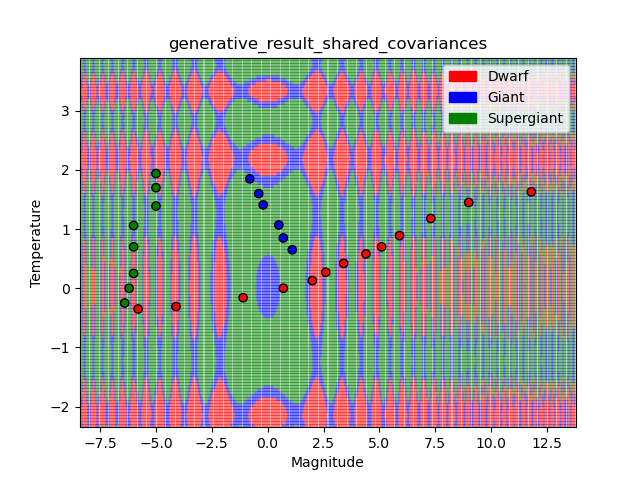
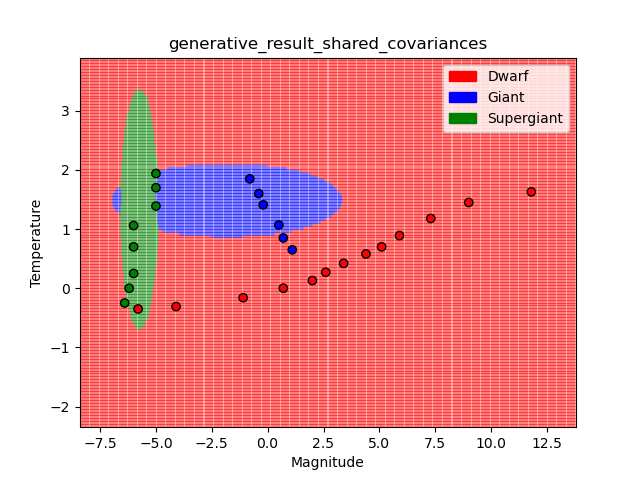
gradient

diff --git a/hw2/T2_P3_GaussianGenerativeModel.py b/hw2/T2_P3_GaussianGenerativeModel.py
@@ -15,46 +15,55 @@ class GaussianGenerativeModel:
     def __optimalPi(self, y):
         pi = [] 
         for j in range(3):
-            pi.append(len([1 for i in y[0] if i == j]))
-        return pi
+            pi.append(len([1 for i in y if i == j]))
+        pi = [p / len(y) for p in pi]
+        self.pi = pi 
+        return 
 
     def __mean(self, X, y):
+        self.__optimalPi(y)
         mu = [] 
         y = np.reshape(y, (1, X.shape[0]))
-        s = sum(y @ X) 
         for j in range(3):
             n = len([1 for i in y[0] if i == j])
-            mu.append(s * (1 / n)) 
-        return mu
+            total = [0, 0]
+            for i in range(len(X)):
+                if y[0][i] == j:
+                    total[0] += X[i][0] 
+                    total[1] += X[i][1]
+            mu.append(np.array(total) * (1 / n)) 
+        return np.array(mu)
 
     def __covarianceMatrix(self, X, y):
         cov = []
         mu = self.__mean(X,y)
-        for i in range(len(X)):
-            total = 0 
-            for j in range(3):
-                total += (X[i] - mu[j]) @ (X[i] - mu[j]).T * y[i]
-            cov.append(total)
-            print("total " + str(total))
-        return (1 / len(X)) * np.array(cov)
-        #return X.T
+        X = np.array(X)
+        for j in range(3):
+            v = [0, 0]
+            for i in range(len(X)):
+                v[0] = (X[i][0] - mu[j][0]) * np.transpose(X[i][0] - mu[j][0])
+                v[1] = (X[i][1] - mu[j][1]) * np.transpose(X[i][1] - mu[j][1])
+            cov.append(np.diag(v))
+        return np.array(cov) * (1 / len(X)) 
 
     # TODO: Implement this method!
     def fit(self, X, y):
-        print("mean" + str(self.__mean(X,y)))
-        print("cov" + str(self.__covarianceMatrix(X,y)))
-        return
+        self.mu = self.__mean(X,y)
+        self.cov = self.__covarianceMatrix(X,y)
+        print("cov " + str(self.cov))
+        print("mu " + str(self.mu))
 
     # TODO: Implement this method!
     def predict(self, X_pred):
         # The code in this method should be removed and replaced! We included it
         # just so that the distribution code is runnable and produces a
         # (currently meaningless) visualization.
-
         preds = []
-        for x in X_pred:
-            z = np.sin(x ** 2).sum()
-            preds.append(1 + np.sign(z) * (np.abs(z) > 0.3))
+        for i in range(len(X_pred)):
+            stars = []
+            for j in range(3):  
+                stars.append(self.pi[j] * mvn.pdf(x=X_pred[i],mean=self.mu[j],cov=self.cov[j]))
+            preds.append(stars.index(max(stars)))
         return np.array(preds)
 
     # TODO: Implement this method!

diff --git a/hw2/T2_P3_LogisticRegression.py b/hw2/T2_P3_LogisticRegression.py
@@ -12,47 +12,43 @@ class LogisticRegression:
     def __init__(self, eta, lam):
         self.eta = eta
         self.lam = lam
-        self.W = np.array([])
 
     def __calculateError(self, x, y):
-        gradient = np.zeros((x.shape[1], 1))
-        for y_i, y_hat, x_i in zip(y, self.predict(x), x):
-            error = np.array([((y_i - y_hat) * x_i)])
-            gradient = gradient + error.T   
-        gradient = gradient / len(x) 
-        #return gradient
-        self.W = gradient
-        return gradient + self.lam * np.linalg.norm(gradient)[0] ** 2 + self.lam * np.linalg.norm(gradient)[0] 
+        gradient = np.zeros((3, x.shape[1]))
+        for j in range(3):
+            count = 0
+            g = np.zeros((1, x.shape[1]))
+            for y_i, y_hat, x_i in zip(y, self.predict(x), x):
+                if (y_i == j):
+                    count += 1
+                    error = np.array([((y_i - y_hat) * x_i)])
+                    g = g + error.T 
+            gradient[j] = (g / count)[:1]
+        self.W = gradient + self.lam * np.linalg.norm(gradient) ** 2 
+        return self.W
 
     # TODO: Implement this method!
     def fit(self, X, y):
         runs = 20000
-        self.W = (self.eta * self.__calculateError(X, y))
+        self.W = np.random.rand(3, X.shape[1])
         for i in range(runs):
             self.W = self.W + (self.eta * self.__calculateError(X, y))
-
-        print("fit W" + str(self.W))
+        print("w: " + str(self.W))
 
     # TODO: Implement this method!
     def predict(self, X_pred):
         # The code in this method should be removed and replaced! We included it
         # just so that the distribution code is runnable and produces a
         # (currently meaningless) visualization.
-        softmax = []
-        for i in range(len(X_pred)):
-            print ("W predict" + str(self.W))
-            z = self.W @ X_pred[i]
-            denom = 0
-            for j in range(len(z)): 
-                denom += np.exp(z[j])
-            softmax.append(z / denom) 
-        preds = [softmax[i].index(max(softmax[i])) for i in softmax] 
-        """
         preds = []
-        for x in X_pred:
-            z = np.cos(x ** 2).sum()
-            preds.append(1 + np.sign(z) * (np.abs(z) > 0.3))
-         """
+        for i in range(len(X_pred)):
+            z = self.W @ X_pred[i] 
+            print("z " + str(z))
+            denom = np.sum(np.exp(z))
+            
+            softmax = np.exp(z) / denom 
+            softmax = list(softmax)
+            preds.append(softmax.index(max(softmax)))
         return np.array(preds)
        
     # TODO: Implement this method!

diff --git a/hw2/T2_P3.py b/hw2/T2_P3.py
@@ -79,7 +79,7 @@ X = df[['Magnitude', 'Temperature']].values
 y = np.array([star_labels[x] for x in df['Type']])
 
 # Setting up and evaluating a number of different classification models
-
+"""
 nb1 = GaussianGenerativeModel(is_shared_covariance=False)
 nb1.fit(X, y)
 visualize_boundary(nb1, X, y, 'generative_result_separate_covariances')
@@ -91,12 +91,12 @@ nb2.fit(X, y)
 visualize_boundary(nb2, X, y, 'generative_result_shared_covariances')
 print('Shared Covariance negative log-likelihood: {}\n'
       .format(nb2.negative_log_likelihood(X, y)))
-
+"""
 lr = LogisticRegression(eta=eta, lam=lam)
 lr.fit(X, y)
 lr.visualize_loss('logistic_regression_loss', show_charts=show_charts)
 visualize_boundary(lr, X, y, 'logistic_regression_result')
-
+"""
 knn1 = KNNModel(k=1)
 knn1.fit(X, y)
 visualize_boundary(knn1, X, y, 'knn1_result')
@@ -108,7 +108,7 @@ visualize_boundary(knn3, X, y, 'knn3_result')
 knn5 = KNNModel(k=5)
 knn5.fit(X, y)
 visualize_boundary(knn5, X, y, 'knn5_result')
-
+"""
 
 # Setting up some sample data
 X_test = np.array([[6, 2]])
